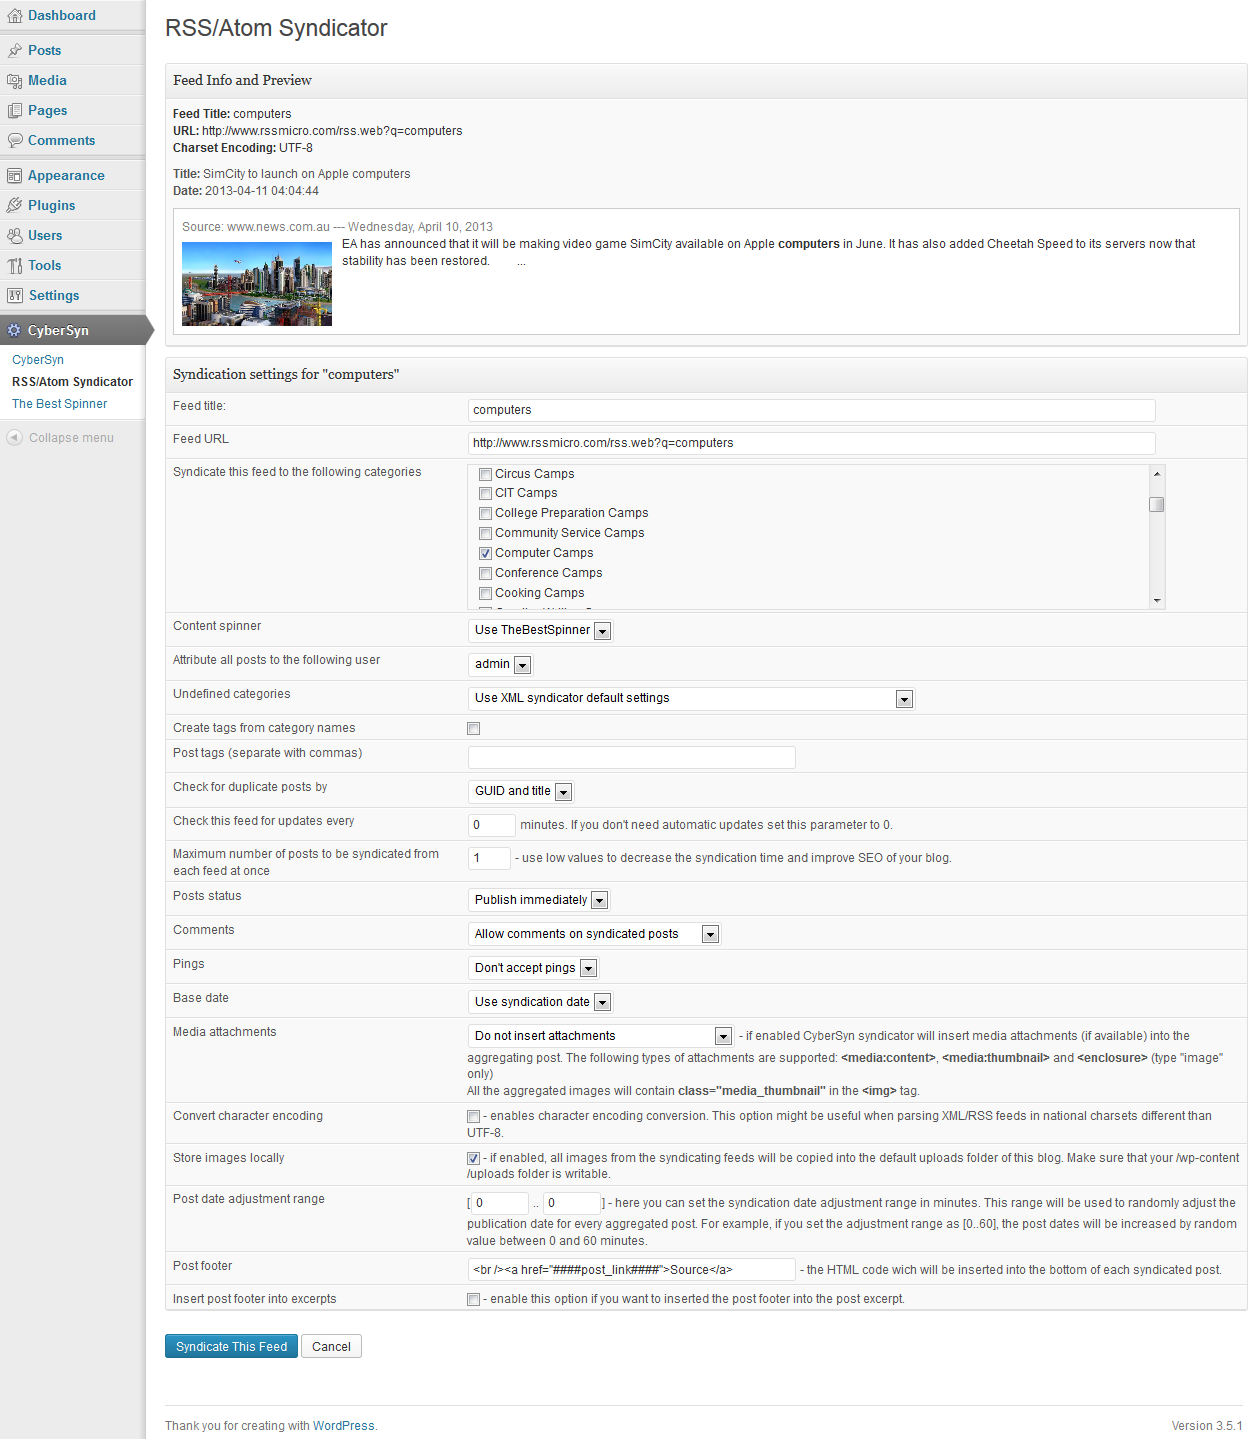
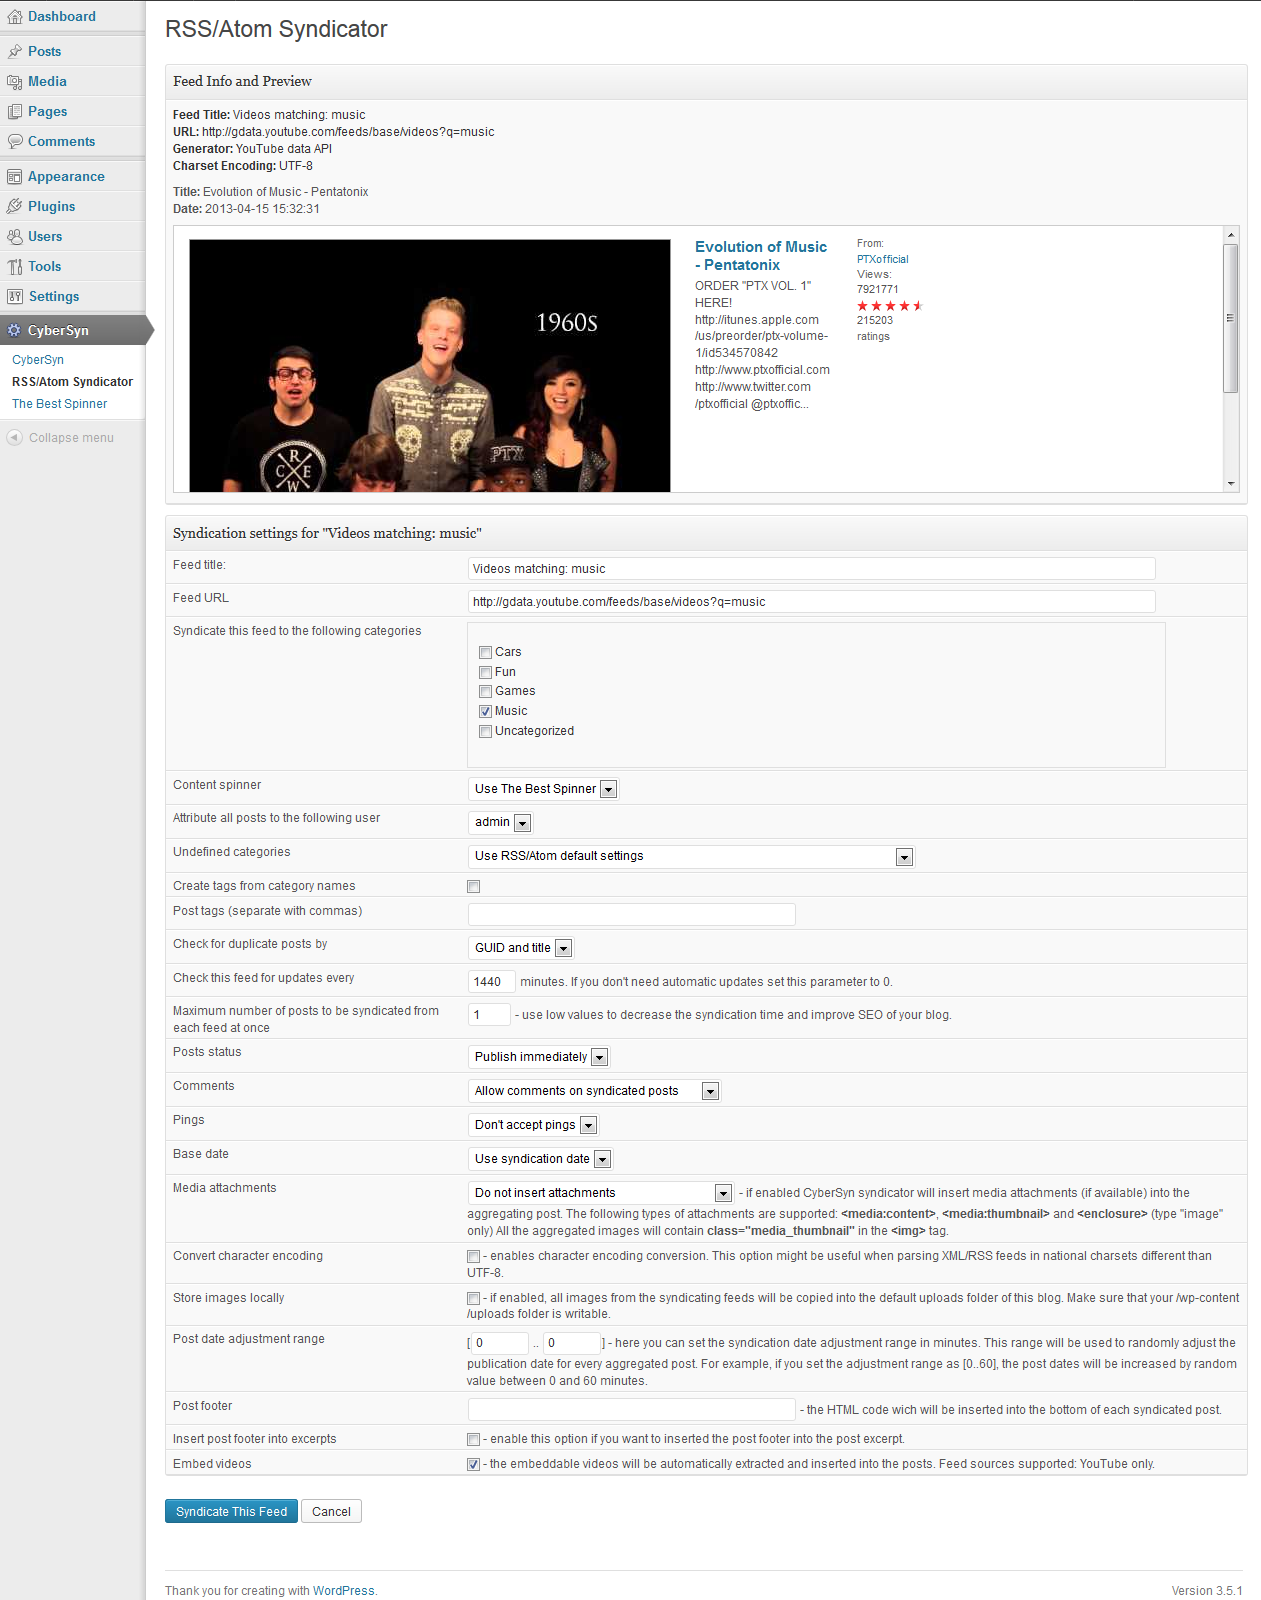
3.10
git-svn-id: https://plugins.svn.wordpress.org/cybersyn/trunk@707501 b8457f37-d9ea-0310-8a92-e5e31aec5664

diff --git a/cybersyn.php b/cybersyn.php
@@ -1,14 +1,14 @@
 <?php
 /*
   Plugin Name: CyberSyn
-  Version: 3.02
+  Version: 3.10
   Author: CyberSEO.net
   Author URI: http://www.cyberseo.net/
   Plugin URI: http://www.cyberseo.net/cybersyn/
   Description: CyberSyn is powerful, lightweight and easy to use Atom/RSS syndicating plugin for WordPress.
  */
 
-$csyn_version_id = '3.02';
+$csyn_version_id = '3.10';
 
 if (!function_exists("get_option") || !function_exists("add_filter")) {
     die();
@@ -186,87 +186,37 @@ function csyn_file_get_contents($url, $as_array = false) {
 }
 
 function csyn_update_options(&$options) {
+    $defaults = array('interval' => 1440,
+        'max_items' => 1,
+        'post_status' => 'publish',
+        'comment_status' => 'open',
+        'ping_status' => 'closed',
+        'post_author' => 1,
+        'base_date' => 'post',
+        'duplicate_check_method' => 'guid_and_title',
+        'undefined_category' => 'use_default',
+        'synonymizer_mode' => '0',
+        'create_tags' => '',
+        'post_tags' => '',
+        'post_category' => array(),
+        'date_min' => 0,
+        'date_max' => 0,
+        'insert_media_attachments' => 'no',
+        'convert_encoding' => '',
+        'store_images' => '',
+        'post_footer' => "",
+        'include_post_footers' => '',
+        'embed_videos' => '');
+
     $result = 0;
-    if (!isset($options['interval'])) {
-        $options['interval'] = 1440;
-        $result = 1;
+
+    foreach ($defaults as $key => $value) {
+        if (!isset($options[$key])) {
+            $options[$key] = $value;
+            $result = 1;
+        }
     }
-    if (!isset($options['max_items'])) {
-        $options['max_items'] = 1;
-        $result = 1;
-    }
-    if (!isset($options['post_status'])) {
-        $options['post_status'] = 'publish';
-        $result = 1;
-    }
-    if (!isset($options['comment_status'])) {
-        $options['comment_status'] = 'open';
-        $result = 1;
-    }
-    if (!isset($options['ping_status'])) {
-        $options['ping_status'] = 'closed';
-        $result = 1;
-    }
-    if (!isset($options['post_author'])) {
-        $options['post_author'] = 1;
-        $result = 1;
-    }
-    if (!isset($options['base_date'])) {
-        $options['base_date'] = 'post';
-        $result = 1;
-    }
-    if (!isset($options['duplicate_check_method'])) {
-        $options['duplicate_check_method'] = 'guid_and_title';
-        $result = 1;
-    }
-    if (!isset($options['undefined_category'])) {
-        $options['undefined_category'] = 'use_default';
-        $result = 1;
-    }
-    if (!isset($options['synonymizer_mode'])) {
-        $options['synonymizer_mode'] = '0';
-        $result = 0;
-    }
-    if (!isset($options['create_tags'])) {
-        $options['create_tags'] = '';
-        $result = 1;
-    }
-    if (!isset($options['post_tags'])) {
-        $options['post_tags'] = '';
-        $result = 1;
-    }
-    if (!isset($options['post_category'])) {
-        $options['post_category'] = array();
-        $result = 1;
-    }
-    if (!isset($options['date_min'])) {
-        $options['date_min'] = 0;
-        $result = 1;
-    }
-    if (!isset($options['date_max'])) {
-        $options['date_max'] = 0;
-        $result = 1;
-    }
-    if (!isset($options['insert_media_attachments'])) {
-        $options['insert_media_attachments'] = 'no';
-        $result = 1;
-    }
-    if (!isset($options['convert_encoding'])) {
-        $options['convert_encoding'] = '';
-        $result = 1;
-    }
-    if (!isset($options['store_images'])) {
-        $options['store_images'] = '';
-        $result = 1;
-    }
-    if (!isset($options['include_post_footers'])) {
-        $options['include_post_footers'] = '';
-        $result = 1;
-    }
-    if (!isset($options['post_footer'])) {
-        $options['post_footer'] = "";
-        $result = 1;
-    }
+
     return $result;
 }
 
@@ -376,6 +326,19 @@ class CyberSyn_Syndicator {
             $url = "http://" . $url;
         }
         return $url;
+    }
+
+    function extractEmbeddableCode($content) {
+        preg_match('/www\.youtube\.com\/watch\?v=(.+)&/', $content, $matches);
+        if (isset($matches[1])) {
+            $id = $matches[1];
+            $video_page = csyn_file_get_contents('http://www.youtube.com/watch?v=' . $id);
+            preg_match('/<div id="watch-description-text">(.*?)<\/div>/is', $video_page, $matches);
+            if (isset($matches[1])) {
+                return '<p><iframe class="embedded_video" width="560" height="315" src="http://www.youtube.com/embed/' . $id . '" frameborder="0" allowfullscreen></iframe></p>' . $matches[1];
+            }
+        }
+        return $content;
     }
 
     function resetPost() {
@@ -718,8 +681,8 @@ class CyberSyn_Syndicator {
                     $this->post ['post_excerpt'] .= $data;
                     break;
                 case "LINK":
-                    if (trim($data) != '') {
-                        $this->post ['link'] = trim($data);
+                    if (trim($data) != "") {
+                        $this->post ['link'] .= trim($data);
                     }
                     break;
                 case "CONTENT:ENCODED":
@@ -926,10 +889,14 @@ class CyberSyn_Syndicator {
                     }
                 }
 
-                $attachment_status = $this->current_feed ['options']['insert_media_attachments'];
+                $attachment_status = $this->current_feed['options']['insert_media_attachments'];
 
-                $post['post_content'] = $this->post ['post_content'];
-                $post['post_excerpt'] = $this->post ['post_excerpt'];
+                $post['post_content'] = $this->post['post_content'];
+                $post['post_excerpt'] = $this->post['post_excerpt'];
+
+                if ($this->current_feed ['options']['embed_videos'] == 'on') {
+                    $post['post_excerpt'] = $post['post_content'] = $this->extractEmbeddableCode($post['post_content']);
+                }
 
                 if ($this->current_feed ['options']['store_images'] == 'on') {
                     preg_match_all('/<img(.+?)src=[\'\"](.+?)[\'\"](.*?)>/is', $post['post_content'] . $post['post_excerpt'], $matches);
@@ -1249,6 +1216,7 @@ class CyberSyn_Syndicator {
                             ?>
                         </select></td>
                 </tr>
+
                 <tr>
                     <td>Media attachments</td>
                     <td><select name="insert_media_attachments" size="1">
@@ -1272,6 +1240,7 @@ class CyberSyn_Syndicator {
                             ?>
                     </td>
                 </tr>
+
                 <tr>
                     <td>Store images locally</td>
                     <td><?php
@@ -1279,6 +1248,7 @@ class CyberSyn_Syndicator {
                             ?>
                     </td>
                 </tr>
+
                 <tr>
                     <td>Post date adjustment range</td>
                     <td><?php
@@ -1288,6 +1258,7 @@ class CyberSyn_Syndicator {
                         the adjustment range as [0..60], the post dates will be increased by random value between 0 and 60 minutes.
                     </td>
                 </tr>
+
                 <tr>
                     <td>Post footer</td>
                     <td><?php
@@ -1296,6 +1267,7 @@ class CyberSyn_Syndicator {
                             ?>
                     </td>
                 </tr>
+
                 <tr>
                     <td>Insert post footer into excerpts</td>
                     <td><?php
@@ -1303,6 +1275,14 @@ class CyberSyn_Syndicator {
                             ?>
                     </td>
                 </tr>
+
+                <tr>
+                    <td>Embed videos</td>
+                    <td><?php
+                echo '<input type="checkbox" name="embed_videos" ' . (($settings['embed_videos'] == 'on') ? 'checked ' : '') . '> - the embeddable videos will be automatically extracted and inserted into the posts. Feed sources supported: YouTube only.';
+                            ?>
+                    </td>
+                </tr>                
 
             </tbody>
         </table>

diff --git a/cybersyn-syndicator.php b/cybersyn-syndicator.php
@@ -92,6 +92,7 @@ if (!function_exists("get_option") || !function_exists("add_filter")) {
         $csyn_syndicator->feeds [(int) $_POST["feed_id"]]['options']['convert_encoding'] = @$_POST['convert_encoding'];
         $csyn_syndicator->feeds [(int) $_POST["feed_id"]]['options']['store_images'] = @$_POST['store_images'];
         $csyn_syndicator->feeds [(int) $_POST["feed_id"]]['options']['include_post_footers'] = @$_POST['include_post_footers'];
+        $csyn_syndicator->feeds [(int) $_POST["feed_id"]]['options']['embed_videos'] = @$_POST['embed_videos'];
         $csyn_syndicator->feeds [(int) $_POST["feed_id"]]['options']['create_tags'] = @$_POST['create_tags'];
         $csyn_syndicator->feeds [(int) $_POST["feed_id"]]['options']['post_tags'] = $_POST['post_tags'];
         $csyn_syndicator->feeds [(int) $_POST["feed_id"]]['options']['post_footer'] = $_POST['post_footer'];
@@ -154,6 +155,7 @@ if (!function_exists("get_option") || !function_exists("add_filter")) {
         $feed['options']['convert_encoding'] = @$_POST['convert_encoding'];
         $feed['options']['store_images'] = @$_POST['store_images'];
         $feed['options']['include_post_footers'] = @$_POST['include_post_footers'];
+        $feed['options']['embed_videos'] = @$_POST['embed_videos'];
         $feed['options']['create_tags'] = @$_POST['create_tags'];
         $feed['options']['max_items'] = abs((int) $_POST['max_items']);
         $feed['options']['post_footer'] = $_POST['post_footer'];
@@ -189,6 +191,7 @@ if (!function_exists("get_option") || !function_exists("add_filter")) {
         $csyn_syndicator->global_options ['convert_encoding'] = @$_POST['convert_encoding'];
         $csyn_syndicator->global_options ['store_images'] = @$_POST['store_images'];
         $csyn_syndicator->global_options ['include_post_footers'] = @$_POST['include_post_footers'];
+        $csyn_syndicator->global_options ['embed_videos'] = @$_POST['embed_videos'];
         $csyn_syndicator->global_options ['create_tags'] = @$_POST['create_tags'];
         $csyn_syndicator->global_options ['post_tags'] = $_POST['post_tags'];
         $csyn_syndicator->global_options ['post_footer'] = $_POST['post_footer'];
